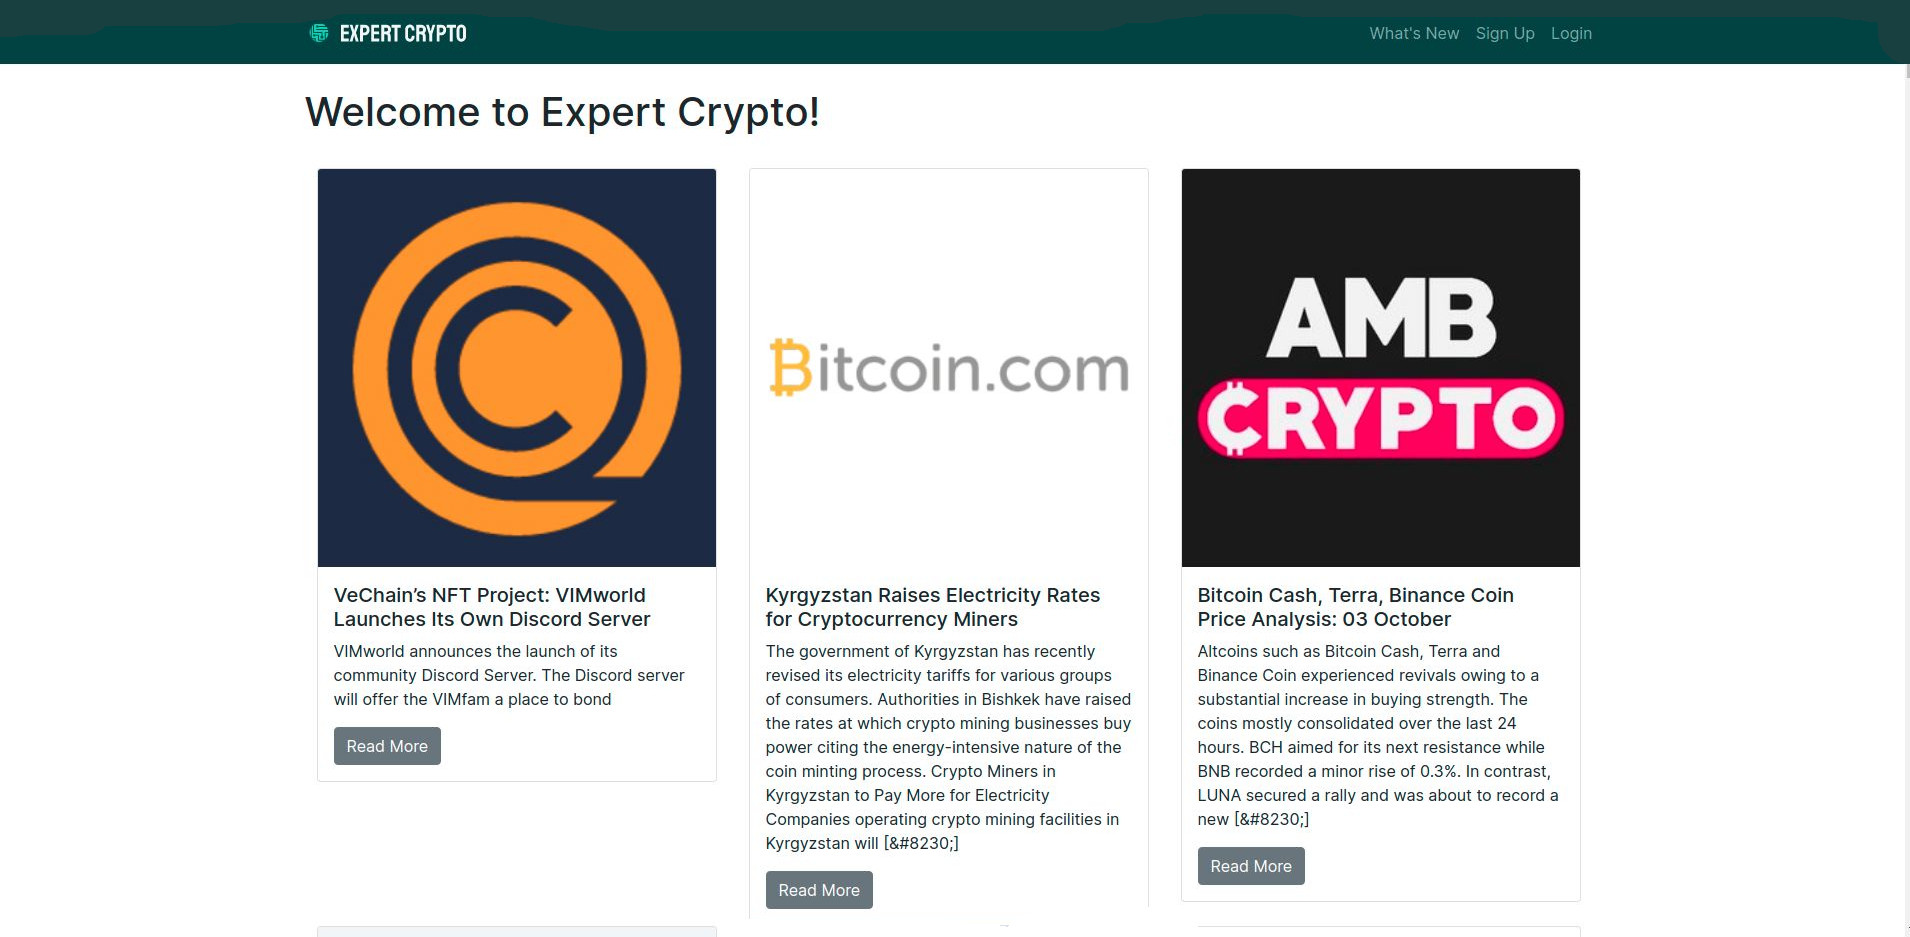
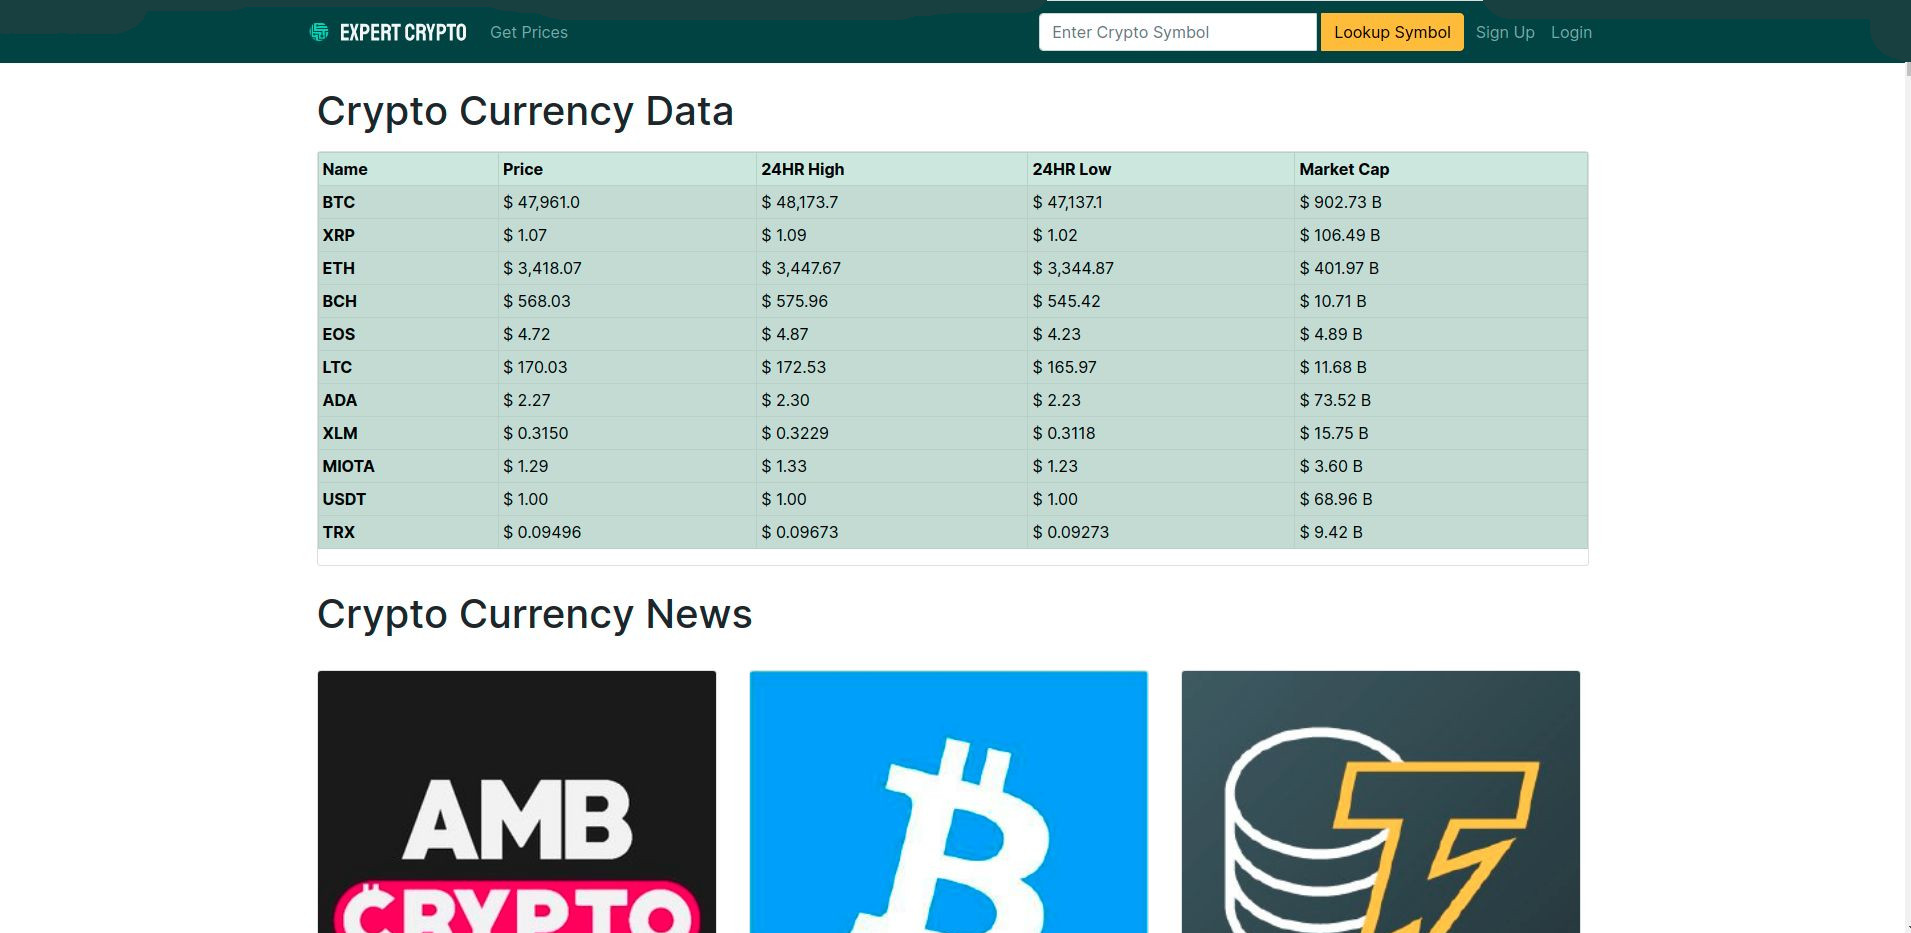
Prices

diff --git a/app/assets/stylesheets/application.scss b/app/assets/stylesheets/application.scss
@@ -19,7 +19,7 @@
 body > .alert {
   margin-bottom: 0;
 }
-
+table.table-dark,
 .navbar-dark {
-  background-color: #034242 !important;
+  background-color:#034242!important;
 }

diff --git a/app/controllers/home_controller.rb b/app/controllers/home_controller.rb
@@ -2,10 +2,16 @@ class HomeController < ApplicationController
   def index
     require 'net/http'
     require 'json'
+    # Fetch News and Info Data
     @url = 'https://min-api.cryptocompare.com/data/v2/news/?lang=EN'
     @uri = URI(@url)
     @response = Net::HTTP.get(@uri)
     @output = JSON.parse(@response)
+    # Fetch Prices Data
+    @prices_url = 'https://min-api.cryptocompare.com/data/pricemultifull?fsyms=BTC,XRP,ETH,BCH,EOS,LTC,ADA,XLM,MIOTA,USDT,TRX&tsyms=USD'
+    @prices_uri = URI(@prices_url)
+    @prices_response = Net::HTTP.get(@prices_uri)
+    @prices = JSON.parse(@prices_response)
   end
 
   def prices

diff --git a/config/routes.rb b/config/routes.rb
@@ -1,6 +1,7 @@
 require 'sidekiq/web'
 
 Rails.application.routes.draw do
+  get '/prices', to: 'home#prices'
   get '/privacy', to: 'home#privacy'
   get '/terms', to: 'home#terms'
 authenticate :user, lambda { |u| u.admin? } do
